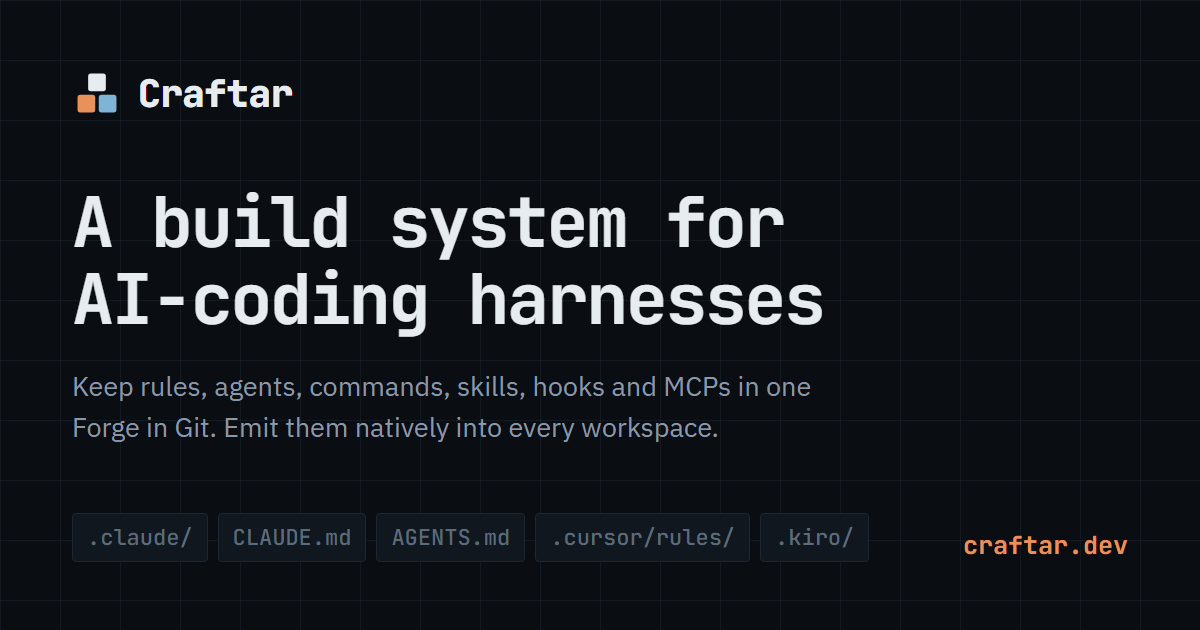
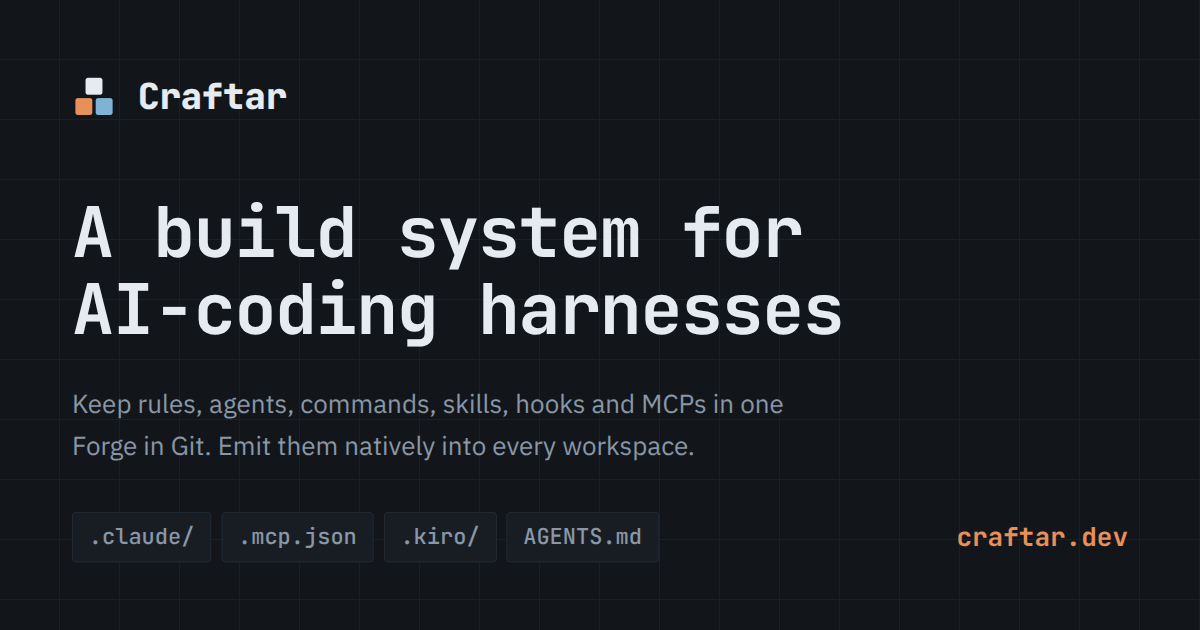
Social card shows only emitted outputs; og.html becomes its source (#12)
* feat(site): add og.html, the source of og.png

og.png had no source in the repo; og.html is rendered at 1200×630 to produce it (noindex).

* fix(site): show only emitted outputs in og.png and its alt text

The card showed CLAUDE.md and .cursor/rules/, which no target emits; it now shows .claude/,
.mcp.json, .kiro/ and AGENTS.md, and og:image:alt says the same.

* docs(site): name og.html in the README

The repo now versions og.html, the source of og.png; the README listed only index.html and llms.txt.

* docs(site): translate the README to English

The repo is public and its other docs are in English; the content is unchanged.

diff --git a/og.html b/og.html
@@ -1,0 +1,59 @@
+<!DOCTYPE html>
+<html lang="en">
+<head>
+<meta charset="utf-8">
+<meta name="robots" content="noindex">
+<title>Craftar — og.png source</title>
+<!-- Source of /og.png. Render the .card element at 1200×630 (device scale 1) and save it as og.png. -->
+<link rel="preconnect" href="https://fonts.googleapis.com">
+<link rel="stylesheet" href="https://fonts.googleapis.com/css2?family=JetBrains+Mono:wght@500;700;800&family=IBM+Plex+Sans:wght@400&display=swap">
+<style>
+  :root {
+    --ink: #0A0E13; --plate: #11171F; --seam: #1C2733; --grid: #131A22;
+    --text: #E7ECF1; --muted: #8A98A8; --ember: #E9915A;
+    --mono: "JetBrains Mono", "SFMono-Regular", Menlo, Consolas, monospace;
+    --body: "IBM Plex Sans", "Helvetica Neue", Arial, sans-serif;
+  }
+  html, body { margin: 0; background: var(--ink); }
+  .card {
+    position: relative; width: 1200px; height: 630px; overflow: hidden; box-sizing: border-box;
+    padding: 72px 72px 0; color: var(--text); background-color: var(--ink);
+    background-image:
+      linear-gradient(var(--grid) 1px, transparent 1px),
+      linear-gradient(90deg, var(--grid) 1px, transparent 1px);
+    background-size: 60px 60px; background-position: -1px -1px;
+  }
+  .brand { display: flex; align-items: center; gap: 22px; font-family: var(--mono); font-weight: 800; font-size: 36px; letter-spacing: -.01em; }
+  .brand svg { width: 44px; height: 44px; }
+  h1 { margin: 74px 0 0; font-family: var(--mono); font-weight: 700; font-size: 70px; line-height: 1.1; letter-spacing: -.02em; }
+  p { margin: 34px 0 0; max-width: 760px; font-family: var(--body); font-size: 26px; line-height: 1.65; color: var(--muted); }
+  .foot { position: absolute; left: 72px; right: 72px; bottom: 68px; display: flex; align-items: center; justify-content: space-between; }
+  .chips { display: flex; gap: 10px; }
+  .chip { font-family: var(--mono); font-weight: 500; font-size: 22px; color: var(--muted); background: var(--plate); border: 1px solid var(--seam); border-radius: 4px; padding: 10px 16px; }
+  .site { font-family: var(--mono); font-weight: 700; font-size: 26px; color: var(--ember); }
+</style>
+</head>
+<body>
+<div class="card">
+  <div class="brand">
+    <svg viewBox="0 0 26 26" aria-hidden="true">
+      <rect x="2" y="14" width="10" height="10" rx="1.5" fill="#E9915A"/>
+      <rect x="14" y="14" width="10" height="10" rx="1.5" fill="#7FB4D6"/>
+      <rect x="8" y="2" width="10" height="10" rx="1.5" fill="#E7ECF1"/>
+    </svg>
+    Craftar
+  </div>
+  <h1>A build system for<br>AI-coding harnesses</h1>
+  <p>Keep rules, agents, commands, skills, hooks and MCPs in one Forge in Git. Emit them natively into every workspace.</p>
+  <div class="foot">
+    <div class="chips">
+      <span class="chip">.claude/</span>
+      <span class="chip">.mcp.json</span>
+      <span class="chip">.kiro/</span>
+      <span class="chip">AGENTS.md</span>
+    </div>
+    <span class="site">craftar.dev</span>
+  </div>
+</div>
+</body>
+</html>

diff --git a/index.html b/index.html
@@ -22,7 +22,7 @@
 <meta property="og:image:type" content="image/png">
 <meta property="og:image:width" content="1200">
 <meta property="og:image:height" content="630">
-<meta property="og:image:alt" content="Craftar: a build system for AI-coding harnesses. Emits to .claude/, CLAUDE.md, AGENTS.md, .cursor/rules/ and .kiro/.">
+<meta property="og:image:alt" content="Craftar: a build system for AI-coding harnesses. Emits to .claude/, .mcp.json, .kiro/ and AGENTS.md.">
 
 <meta name="twitter:card" content="summary_large_image">
 <meta name="twitter:title" content="Craftar — a build system for AI-coding harnesses">

diff --git a/README.md b/README.md
@@ -1,7 +1,7 @@
 # Craftar — site
 
-Landing page do Craftar, um build system para harnesses de AI coding.
+Landing page for Craftar, a build system for AI-coding harnesses.
 
-Site estático de um arquivo: `index.html` (sem build, sem dependências) e `llms.txt`.
+Single-file static site: `index.html` (no build, no dependencies) and `llms.txt`. `og.html` is the source of `og.png` (rendered at 1200×630, `noindex`).
 
-Publicado com GitHub Pages a partir da branch `main` (raiz).
+Published by GitHub Pages from the `main` branch (root).
